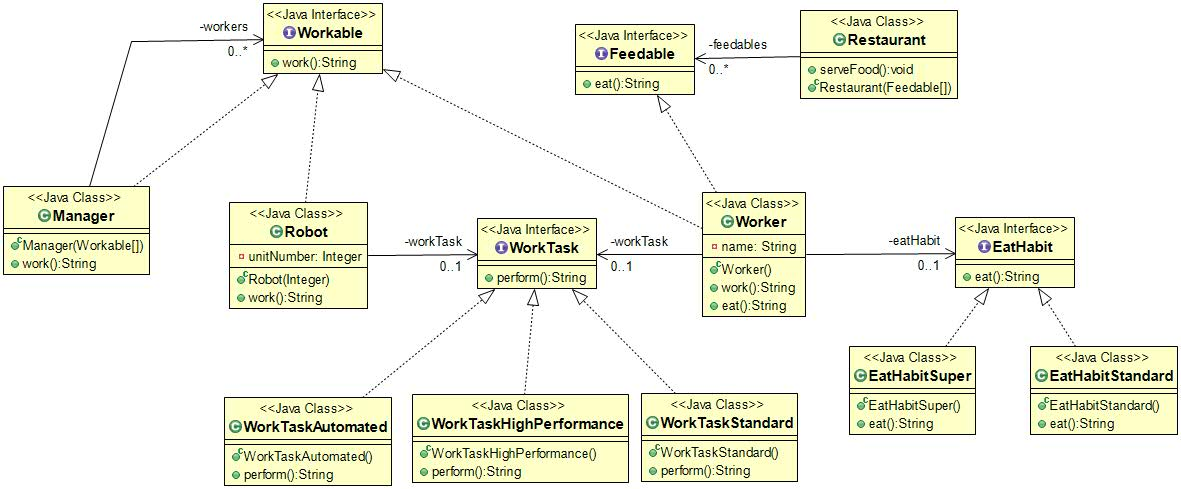
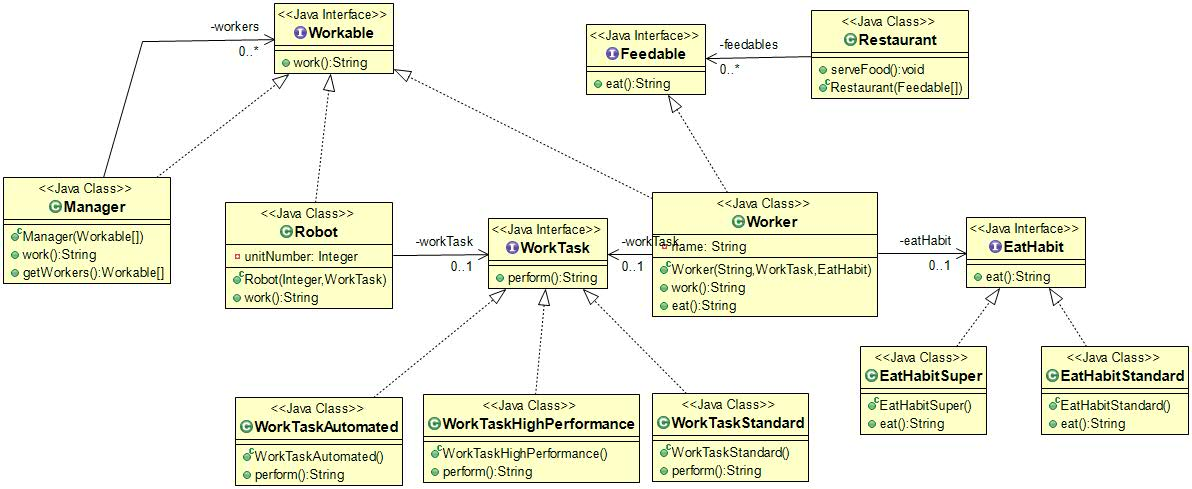
solid ideal

diff --git a/src/main/java/edu/utn/frro/ma/solid/ideal/Main.java b/src/main/java/edu/utn/frro/ma/solid/ideal/Main.java
@@ -1,0 +1,41 @@
+package edu.utn.frro.ma.solid.ideal;
+
+import java.util.Collection;
+
+public class Main {
+
+	public static void main(String[] args) {
+		WorkTask automatedWork = new WorkTaskAutomated();
+		WorkTask highPerformanceWork = new WorkTaskHighPerformance();
+		WorkTask standardWork = new WorkTaskStandard();
+		EatHabit eatStandard = new EatHabitStandard();
+		EatHabit eatSuper = new EatHabitSuper();
+		
+		Worker super1 = new Worker("Super1", highPerformanceWork, eatSuper);
+		Worker super2 = new Worker("Super2", highPerformanceWork, eatSuper);
+		Worker super3 = new Worker("Super3", highPerformanceWork, eatSuper);
+		Robot r1 = new Robot(1, automatedWork);
+		Robot r2 = new Robot(2, automatedWork);
+		Robot r3 = new Robot(3, automatedWork);
+		Robot r4 = new Robot(4, automatedWork);
+		Worker sw1 = new Worker("Joe", standardWork, eatStandard);
+		Worker sw2 = new Worker("Juan", standardWork, eatStandard);
+		Worker sw3 = new Worker("Jane", standardWork, eatStandard);
+		Worker sw4 = new Worker("David", standardWork, eatStandard);
+		Worker sw5 = new Worker("Julie", standardWork, eatStandard);
+		
+		Worker efficient1 = new Worker("efficient1", highPerformanceWork, eatStandard);
+		Worker efficient2 = new Worker("efficient2", highPerformanceWork, eatStandard);
+		
+		Manager manager = new Manager(r1, super1, sw1, sw5, r4, sw2, r2, super2, r3, sw3, super3, sw4, efficient1, efficient2);
+		Restaurant restaurant = new Restaurant(super1, sw1, sw2, super2, sw3, sw4, sw5, super3, efficient1, efficient2);
+		
+		manager.work();
+		restaurant.serveFood();
+		
+	
+		
+
+	}
+
+}

diff --git a/src/main/java/edu/utn/frro/ma/solid/Main.java b/src/main/java/edu/utn/frro/ma/solid/Main.java
@@ -20,10 +20,10 @@ public class Main {
 		Customer c2 = new Customer("5678");
 		Customer c3 = new Customer("9012");
 		
-		Manager company = new Manager(r1, s1, sw1, sw5, r4, sw2, r2, s2, r3, sw3, s3, sw4);
+		Manager manager = new Manager(r1, s1, sw1, sw5, r4, sw2, r2, s2, r3, sw3, s3, sw4);
 		Restaurant restaurant = new Restaurant(c1, s1, sw1, sw2, c2, s2, c3, sw3, s3, sw4, sw5);
 		
-		company.makeMoney();
+		manager.makeMoney();
 		restaurant.serveFood();
 		
 

diff --git a/src/main/java/edu/utn/frro/ma/solid/ideal/Worker.java b/src/main/java/edu/utn/frro/ma/solid/ideal/Worker.java
@@ -5,6 +5,12 @@ public class Worker implements Workable, Feedable {
 	private WorkTask workTask;
 	private EatHabit eatHabit;
 	
+	public Worker(String name, WorkTask workTask, EatHabit eatHabit) {
+		this.name=name;
+		this.workTask = workTask;
+		this.eatHabit = eatHabit;
+	}
+
 	public String work() {
 		return name+": "+ workTask.perform();
 	}

diff --git a/src/main/java/edu/utn/frro/ma/solid/ideal/Robot.java b/src/main/java/edu/utn/frro/ma/solid/ideal/Robot.java
@@ -3,8 +3,9 @@ package edu.utn.frro.ma.solid.ideal;
 public class Robot implements Workable{
 	private WorkTask workTask;
 	private Integer unitNumber;
-	public Robot(Integer unitNumber) {
+	public Robot(Integer unitNumber, WorkTask workTask) {
 		this.unitNumber=unitNumber;
+		this.workTask=workTask;
 	}
 
 	public String work() {

diff --git a/src/main/java/edu/utn/frro/ma/solid/ideal/Manager.java b/src/main/java/edu/utn/frro/ma/solid/ideal/Manager.java
@@ -19,6 +19,10 @@ public class Manager implements Workable {
 		}
 		System.out.println("### Take a break of work. ###");
 		return "good job";
+	}
+
+	public Workable[] getWorkers() {
+		return workers;
 	}	
 	
 }
